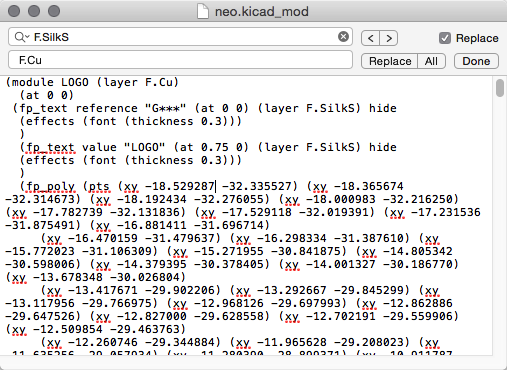
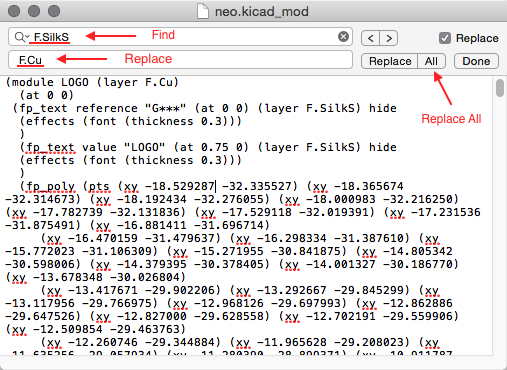
publish: make config sh portable
generated from commit 1e88004e07947fb9eda94c8437c10ab30cdaecf2

diff --git a/4_7.1-PCB-Art-with-Kicad-and-Inkscape.md b/4_7.1-PCB-Art-with-Kicad-and-Inkscape.md
@@ -1,4 +1,4 @@
-B Art with Kicad and Inkscape
+# PCB Art with Kicad and Inkscape
 
 ## PCB Art Design Workflow
 
@@ -23,15 +23,15 @@ B Art with Kicad and Inkscape
 
 todo
 
-### How to Import design from Inkscape to Kicad
+### How to Import design from Inkscape to Kicads
 
-* Open Bitmap2Component from Kicad  
+1. Open Bitmap2Component from Kicad  
   ![](assets/screenshot_108.png)
 
-* Convert Exported Layer from Inkscape to Kicad Footprint With Format: **PCBNew**, Options: **Negative**, Board Layer: **Front Silk Screen**  
+2. Convert Exported Layer from Inkscape to Kicad Footprint With Format: **PCBNew**, Options: **Negative**, Board Layer: **Front Silk Screen**  
   ![](assets/bitmap2component.gif)
 
-* Edit converted file with Text Editor of your choice, since Bitmap2Component doesnt support exporting layer to Front/Back Copper  
+3. Because Bitmap2Component doesnt support exporting to Copper layer we need to Edit converted file with Text Editor of your choice and replace, **F.SilkS** (front silkscreen from step 2) to **F.Cu** (front copper)
   ![](/assets/screenshot_109.png)
 
 ## Gerber Layer / Kicad PCB layer visual explanation![](/assets/Kicad_soldermask_copper.png)
